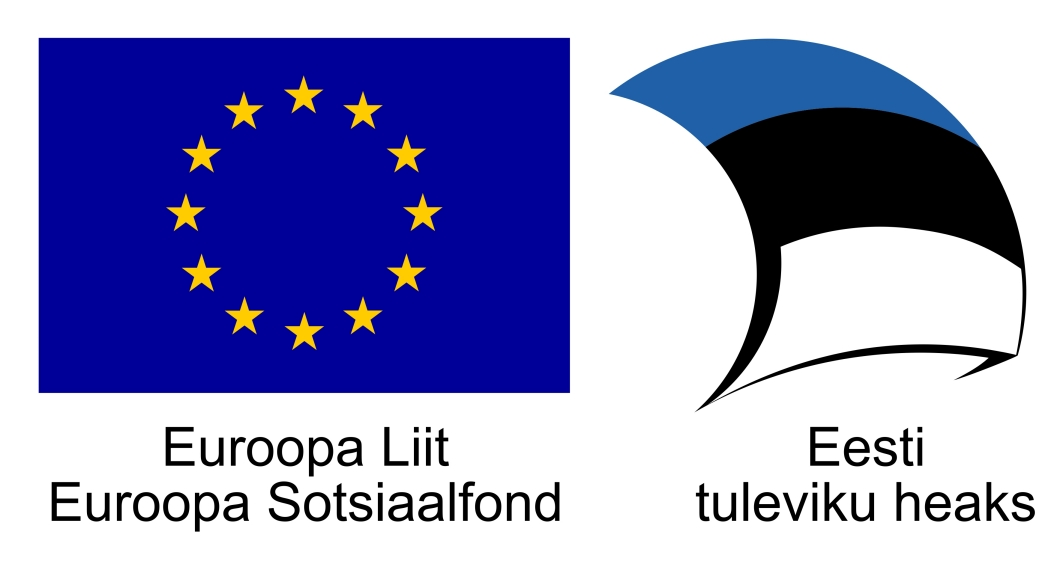
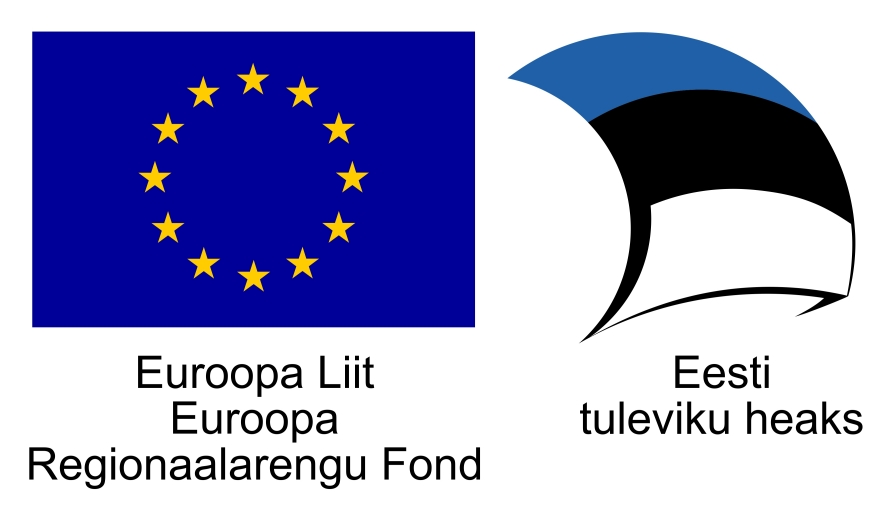
Stend

diff --git a/innovatsioon.html b/innovatsioon.html
@@ -37,8 +37,12 @@
             <span class="icon-bar"></span>
             <span class="icon-bar"></span>
           </button>
-          <a class="navbar-brand" href="#top">
-          <img class="logo" alt="Velotandem" src="images/logo.png" height="30px"></a>
+          <a href="#top" class="navbar-brand">
+          	<img height="100px" src="images/logo.png" alt="Velotandem" class="logo" />
+         </a>
+         <a href="/innovatsioon.html" class="navbar-brand">
+         	<img height="100px" src="images/EL1.jpg" alt="EL" class="logo" />
+        </a>
         </div>
         <div id="navbar" class="collapse navbar-collapse">
           <ul class="nav navbar-nav navbar-right">
@@ -60,13 +64,18 @@
 	<h1><img src="images/EL1.jpg" style="width: 400px !important; height: auto; margin: auto !important; max-width: 100%;" /></h1>
 
 </div>
-
 <div class="container">
-	<div class="kast">
-	<h1>Innovatsioon</h1>
-	<p class="lead">Projekti “Jalgrataste puhastusstendi valmistusjooniste väljatöötamine” (EU49713) raames töötatakse välja jalgrataste puhastusstatiiv Velotandem OÜ-le. Antud statiiv võimaldab efektiivsemalt teostada jalgrataste kuiv- ja märgpuhastust. Antud lahendus välistab ka võimaliku keskkonnareostuse spetsiaalkeemia kasutamisel puhastusprotsessis. Projekti toetab Euroopa Sotsiaalfond.
-	</p>
+  <div class="kast">
+  <h1>Innovatsioon</h1>
+	<div class="kast teenus">
+	
+  <p class="lead">Jalgrataste puhastusstend</p>
+  <p>Puhastame ja hooldame iga päev arvukalt rattaid nii klientidele kui ka kasutatud rattaid müügiks ette valmistades. Hooldamiseks kasutame spetsiaalseid puhastusvahendeid, mis on osaliselt korduvkasutatavad. Kulude vähendamiseks ning keskkonnahoiu põhimõtetest tulenevalt on vajalik puhastusvahendi kokkukogumine puhastusprotsessi lõpus.</p>
+	<p>Projekti “Jalgrataste puhastusstendi valmistusjooniste väljatöötamine” (EU49713) eesmärgiks oli töötada välja jalgrataste puhastusstatiiv, mis võimaldab efektiivsemalt teostada jalgrataste kuiv- ja märgpuhastust ning välistab võimaliku keskkonnareostuse spetsiaalkeemia kasutamisel puhastusprotsessis. Projekti toetati 4000€ ulatuses Euroopa Regionaalarengu Fondist.</p>
+  <p>Projekti tulemusena välja töötatav puhastusstend võetakse ettevõttes kasutusele, et kliente kiiremini teenindada ning rohkem kasutatuid rattaid korda teha ja müüki panna.
+	<img src="/images/Stend.JPG" />
 	</div>
+  </div>
 </div>
     
 	<div id="kontakt" class="container vahe"><hr></div>

diff --git a/index.html b/index.html
@@ -37,8 +37,12 @@
             <span class="icon-bar"></span>
             <span class="icon-bar"></span>
           </button>
-          <a class="navbar-brand" href="#top">
-          <img class="logo" alt="Velotandem" src="images/logo.png" height="30px"></a>
+          <a href="#top" class="navbar-brand">
+          	<img height="100px" src="images/logo.png" alt="Velotandem" class="logo" />
+         </a>
+         <a href="/innovatsioon.html" class="navbar-brand">
+         	<img height="100px" src="images/EL1.jpg" alt="EL" class="logo" />
+        </a>
         </div>
         <div id="navbar" class="collapse navbar-collapse">
           <ul class="nav navbar-nav navbar-right">

diff --git a/css/stiil.css b/css/stiil.css
@@ -11,9 +11,14 @@ Velotandem OÜ koduleht
 body {
 }
 
+#navbar {
+	min-height: 120px;
+	padding-top: 30px;
+}
+
 .navbar-brand {
   float: left;
-  height: 50px;
+	height: 50px;
   padding: 10px 15px;
   font-size: 18px;
   line-height: 20px;
@@ -27,7 +32,7 @@ p, a {
 
 .navbar-default .navbar-nav > li > a {
 	font-family: 'Abel', sans-serif;
-	font-size: 18px;
+	font-size: 24px;
 	line-height: 24px;
 }
 
